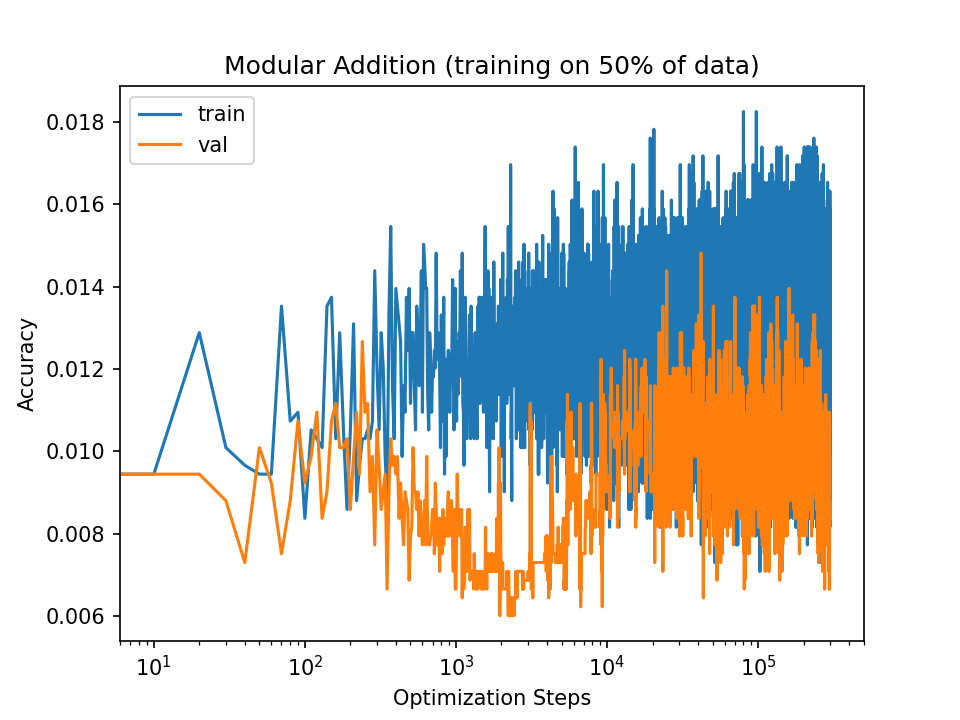
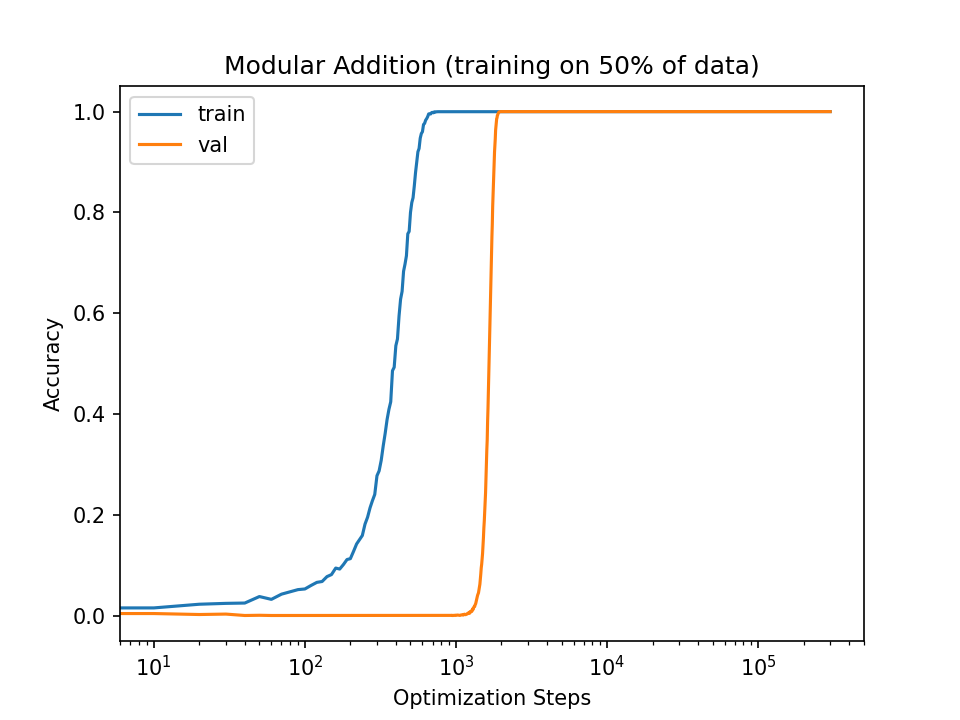
MLP is grokking !

diff --git a/mlp.py b/mlp.py
@@ -46,7 +46,7 @@ def Addition_mod_p_data(p, eq_token, op_token):
     op = torch.ones_like(x) * op_token
     result = (x + y) % p
 
-    # "All of our experiments used a small transformer trained on datasets of
+    # our experiments use a 3 layer MLP with an embedding trained on datasets of
     # equations of the form a◦b = c, where each of “a”, “◦”, “b”, “=”, and “c”
     # is a seperate token"
     return torch.stack([x, op, y, eq, result])
@@ -63,10 +63,7 @@ def main(args):
     eq_token = args.p
     op_token = args.p + 1
 
-    # "We trained a standard decoder-only transformer (Vaswani et al., 2017)
-    # with causal attention masking, and calculated loss and accuracy only on
-    # the answer part of the equation. For all experiments we used a
-    # transformer with 2 layers, width 128, and 4 attention heads"
+    # We trained a MLP
     
     model=MLP(num_tokens=args.p+2, embedding_dim=128,hidden_dim=512, output_dim=args.p+2).to(device)
 
@@ -122,7 +119,7 @@ def main(args):
                     optimizer.step()
                     scheduler.step()
 
-                acc = (logits[-1].argmax(-1) == input[-1]).float().mean()
+                acc = (logits.argmax(-1) == input[-1]).float().mean()
                 total_acc += acc.item() * input.shape[-1]
 
             if is_train:
@@ -163,7 +160,7 @@ if __name__ == "__main__":
     parser.add_argument("--lr", type=float, default=1e-3)
     parser.add_argument("--beta1", type=float, default=0.9)
     parser.add_argument("--beta2", type=float, default=0.98)
-    parser.add_argument("--weight_decay", type=float, default=0)
+    parser.add_argument("--weight_decay", type=float, default=1e-3)
     parser.add_argument("--optimizer", default="Adam")
     args = parser.parse_args()
     main(args)
